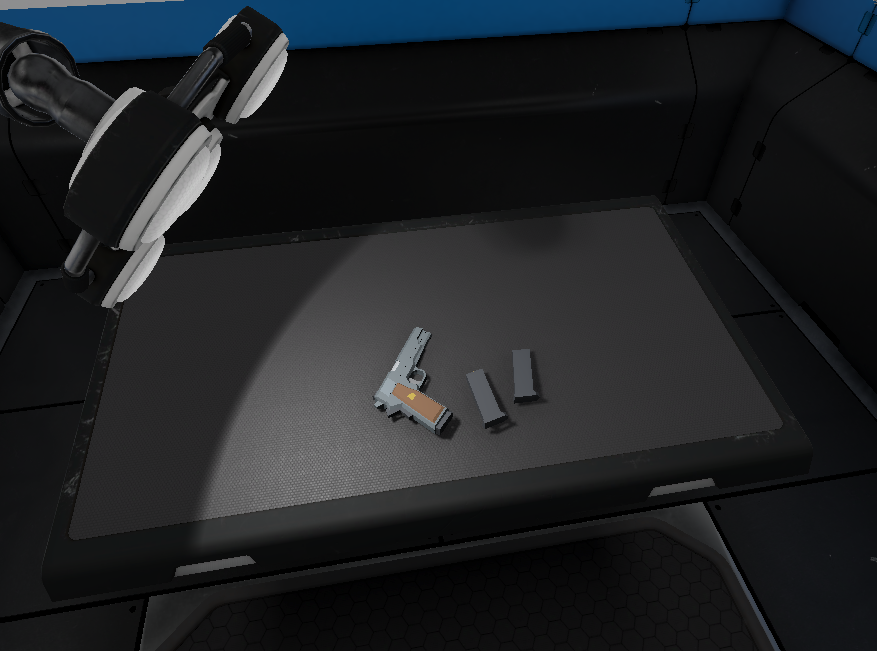
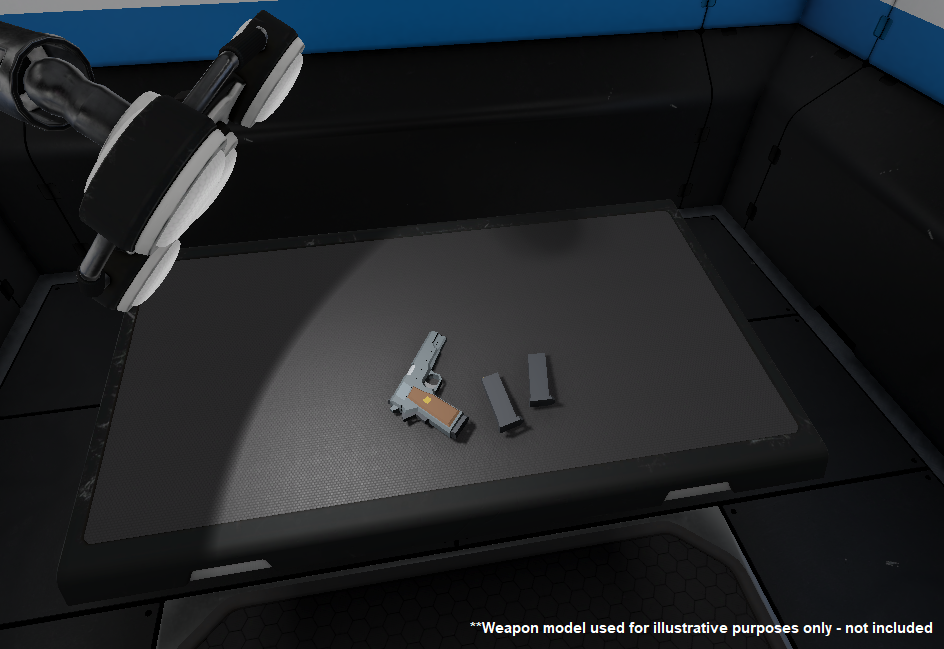
more progress on content from outline, images relevant to the sections covered.

diff --git a/content/docs/tutorials/weapons/creating-a-gun.md b/content/docs/tutorials/weapons/creating-a-gun.md
@@ -20,30 +20,27 @@ The main weapon component. It ties together:
 - ammo checks (mag-based)
 - recoil (procedural)
 - audio + haptics
-It also **requires** a `UxrProjectileSource`
+- **requires** a `UxrProjectileSource`
 
-#### UxrProjectileSource
+#### `UxrProjectileSource`
 The component that actually performs the shot:
 - chooses a shot type (by index)
 - fires using a source transform (position/forward)
 - registers projectiles/shots via the weapon manager
 - optionally spawns muzzle prefabs and impact prefabs  
-(See Shoot(), ShotTypes, and raycast helpers.)
 
-#### Triggers (UxrFirearmTrigger entries)
+#### Triggers (`UxrFirearmTrigger` entries)
 A firearm can have **one or more triggers**. Each trigger can:
 - fire a different shot type (ProjectileShotIndex)
 - use a different shot cycle (semi, full auto, manual reload)
 - have its own recoil/audio/haptics
 - optionally require a magazine anchor for ammo  
-(See trigger fields: cycle type, max frequency, audio, haptics, recoil.)
 
-#### Mag Anchor + Mag (UxrGrabbableObjectAnchor + UxrFirearmMag)
+#### Mag Anchor + Mag (`UxrGrabbableObjectAnchor` + `UxrFirearmMag`)
 - The **mag anchor** is where a magazine physically attaches.
 - The **mag** stores ammo:
   - Capacity = max rounds
   - Rounds = remaining rounds (clamped) and raises a change event  
-(See Capacity/Rounds and RoundsChanged.)
 
 #### Recoil
 Recoil is applied after constraints so it happens in the correct order. Recoil is configurable per trigger:
@@ -54,32 +51,55 @@ Recoil is applied after constraints so it happens in the correct order. Recoil i
 
 ### Optional Components
 
-#### UxrFirearmAmmoLabel
+#### `UxrFirearmAmmoLabel`
 A simple UI helper that draws ammo remaining (and optionally capacity) from a chosen trigger index.
 
 ---
 
 ## Setting Up the Model
+Let's get a basic weapon working! This will cover to minimum requirements to create a functional weapon. We'll cover more areas in the Polish section.
 
-Recommended hierarchy:
-
-- **Gun** (Empty GameObject) ← *all weapon components live here*
-  - **Gun_Model** (Empty GameObject) ← *middleman for easy swapping/scaling*
+First, add your desired weapon model to the scene. Next, we'll set up the recommended hierarchy for the weapon:
+- **Gun** (Empty GameObject) ← *logic (components) will live here*
+  - **Gun Model** (Empty GameObject) ← *middleman for easy swapping/scaling but optional*
     - **GunMesh** (your mesh/model)
+
+![](/media/docs/tutorials/weapons/creating-a-gun/gun-3-tier-setup.png)
+> The “middleman” model object is recommended due to how it keeps your weapon logic unscaled and makes swapping meshes/models painless.
+
+After adding your model, you may need to reset the position and rotation
+![](/media/docs/tutorials/weapons/creating-a-gun/pistol-model-scale.png)
+{{% callout tip %}}
+- Feel free to leave the scale of the model at the same values it was imported in as. Use the middleman ("Gun Model") object if you need to adjust the scale.
+- If your model seems to disappear after reseting the rotation and position, the root Gun object is most likely out of view. Select it in the heirarchy, then press the "F" key to auto-focus on it.
+{{% /callout %}}
+
+
   - **ShotSource** (Empty GameObject) ← *muzzle / bullet origin*
   - **Tip** (Optional) ← *muzzle flash spawn transform if used*
   - **TriggerTransform** (Optional) ← *a child transform that visually rotates*
   - **MagAnchor** (Empty GameObject) ← *where the magazine will seat*
 
-> The “middleman” model object keeps your weapon logic unscaled and makes swapping meshes painless.
+Next, we'll add a few more empty game objects which we'll use later as reference points.
+- ShotSource
+- Tip
+- Recoil (if recoil isn't wanted, you can skip this one!)
+![](/media/docs/tutorials/weapons/creating-a-gun/gun-reference-points.png)
 
----
+And with those reference points added, we can start adding components!
 
-## Add Components and References (Minimum Working Setup)
+## Components and References
+First, lets start by adding the `UxrGrabbableObject` component so that we can pick up our weapon. Remember to add the component to our base "Gun" object and not the middleman or model. After adding the component, set up the grabs as normal 
+{{% callout tip %}}
+Check out our other guides, such as grabbing a ball or creating a staff if you need more information on this component!
+{{% /callout %}}
 
-### 1) Add UxrGrabbableObject (Grip)
-- Add a `UxrGrabbableObject` to **Gun**
-- Create your main grip pose(s)
+As you can see from the image below, the model we are using looks a bit too big. We can use our middleman object to adjust it's scale down to a value that fits better. This value may be different for your model, just set it to a value you like!
+![](/media/docs/tutorials/weapons/creating-a-gun/pistol-too-big.png)
+
+For the pose, we recommend selecting either a generic one or the DemoGun pose for now. Even if the pose may not fit your model completely, we want to get the gun working at the moment. We can come back at the end and add details/polish!
+
+
 - Confirm you can pick up the gun in play mode
 
 ### 2) Add UxrProjectileSource
